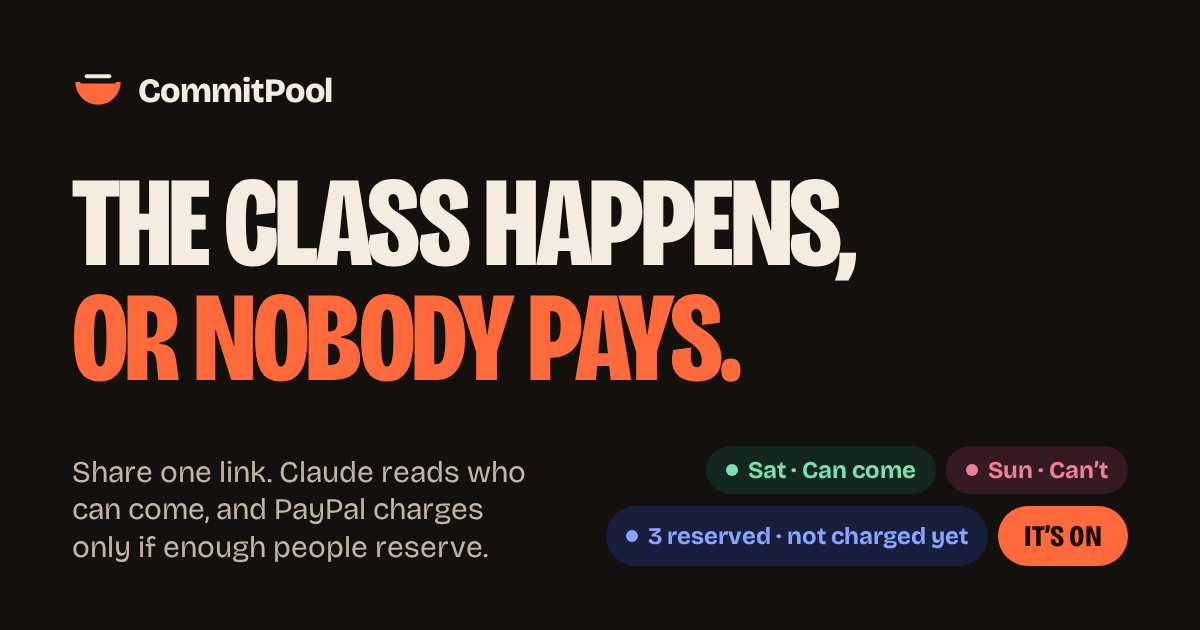
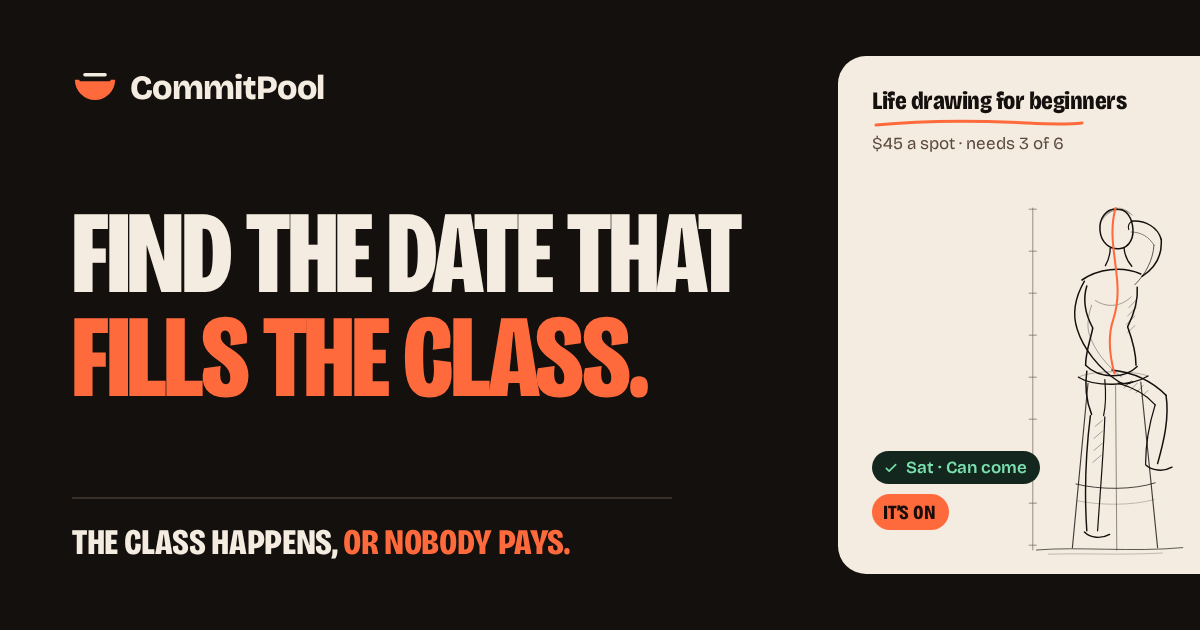
feat(web): capture the demo's real screens and draw the link preview
web/scripts/capture.mjs walks the demo with Playwright (Try it as Iris, the
six answers, Grace answers Claude, open reservations, Priya's reservation),
writes WebP shots for the landing and PNGs for the README. The link preview
is rendered from an HTML card with the new headline.

diff --git a/web/scripts/og-default.html b/web/scripts/og-default.html
@@ -1,0 +1,97 @@
+<!doctype html>
+<html lang="en">
+<head>
+<meta charset="utf-8">
+<title>CommitPool link preview</title>
+<style>
+@font-face {
+  font-family: "Bricolage Grotesque";
+  src: url("../src/assets/fonts/bricolage-latin-var.woff2") format("woff2");
+  font-weight: 200 800;
+  font-stretch: 75% 100%;
+  font-display: block;
+}
+* { box-sizing: border-box; margin: 0; }
+html, body { width: 1200px; height: 630px; overflow: hidden; }
+body { background: #14100d; color: #f4ece0; font-family: "Bricolage Grotesque", sans-serif; font-optical-sizing: auto; position: relative; }
+.copy { position: absolute; left: 72px; top: 64px; width: 700px; }
+.logo { display: flex; align-items: center; gap: 12px; font-weight: 800; font-size: 34px; letter-spacing: -0.02em; }
+.logo svg { width: 46px; height: 46px; }
+h1 { margin-top: 92px; font-weight: 800; font-stretch: 75%; text-transform: uppercase; font-size: 118px; line-height: 0.88; letter-spacing: -0.02em; }
+h1 span { color: #ff6a3d; }
+.promise { position: absolute; left: 72px; bottom: 66px; padding-top: 22px; border-top: 2px solid #3a2f27; width: 600px; font-weight: 800; font-stretch: 75%; text-transform: uppercase; font-size: 36px; letter-spacing: -0.01em; }
+.promise span { color: #ff6a3d; }
+.sheet { position: absolute; right: 0; top: 56px; bottom: 56px; width: 362px; background: #f4ece0; border-radius: 28px 0 0 28px; color: #14100d; padding: 30px 0 0 34px; }
+.sheet b { display: block; font-size: 25px; font-weight: 800; font-stretch: 80%; letter-spacing: -0.02em; }
+.sheet small { display: block; margin-top: 4px; font-size: 17px; color: #5b4a3d; }
+.sheet svg.uline { display: block; width: 214px; height: 10px; margin-top: 3px; }
+.sheet svg.figure { position: absolute; right: 10px; bottom: 18px; height: 384px; width: auto; }
+.chip { position: absolute; left: 34px; display: inline-flex; align-items: center; gap: 7px; padding: 6px 13px 6px 11px; border-radius: 999px; font-size: 17px; font-weight: 600; }
+.chip svg { width: 16px; height: 16px; fill: none; stroke: currentColor; stroke-width: 2.4; stroke-linecap: round; stroke-linejoin: round; }
+.can { background: #14271e; color: #7be0ae; bottom: 90px; }
+.on { background: #ff6a3d; color: #1a0d07; bottom: 44px; font-weight: 800; font-stretch: 75%; text-transform: uppercase; font-size: 20px; letter-spacing: -0.01em; }
+</style>
+</head>
+<body>
+  <div class="copy">
+    <div class="logo">
+      <svg viewBox="0 0 32 32"><path d="M2 11h28a14 14 0 0 1-28 0Z" fill="#ff6a3d"/><path d="M6 11h20" stroke="#14100d" stroke-width="2" stroke-linecap="round"/><path d="M9 7.5h14" stroke="#f4ece0" stroke-width="2.4" stroke-linecap="round"/></svg>
+      CommitPool
+    </div>
+    <h1>Find the date that <span>fills the class.</span></h1>
+  </div>
+  <p class="promise">The class happens, <span>or nobody pays.</span></p>
+  <div class="sheet">
+    <b>Life drawing for beginners</b>
+    <svg class="uline" viewBox="0 0 210 10"><path d="M2 6c40-4 92-5 150-2 20 1 38 2 56 0" fill="none" stroke="#ff6a3d" stroke-width="3" stroke-linecap="round"/></svg>
+    <small>$45 a spot · needs 3 of 6</small>
+    <svg class="figure" viewBox="0 0 280 640">
+      <g fill="none" stroke-linecap="round" stroke-linejoin="round">
+          <path d="M18 60v570" stroke="#6b5a4c" stroke-width="1.1"/>
+          <path d="M12 62h12M12 132h12M12 202h12M12 272h12M12 342h12M12 412h12M12 482h12M12 552h12M12 622h12" stroke="#6b5a4c" stroke-width="1.1"/>
+          <path d="M160 62c-20-2-32 16-30 36 2 20 16 31 32 30 18-2 26-20 22-40-3-16-12-26-24-26" stroke="#14100d" stroke-width="2.5"/>
+          <path d="M134 80c10-18 34-24 50-8" stroke="#14100d" stroke-width="1.2" opacity="0.5"/>
+          <path d="M138 72c14-12 30-12 42-2M141 66c12-8 26-8 36 0" stroke="#14100d" stroke-width="1" opacity="0.4"/>
+          <path d="M147 127c0 11-3 20-8 29M170 126c1 12 5 22 13 31" stroke="#14100d" stroke-width="2.2"/>
+          <path d="M100 180c26-18 66-24 98-10" stroke="#14100d" stroke-width="2.6"/>
+          <path d="M200 174c22-14 34-34 32-62" stroke="#14100d" stroke-width="2.5"/>
+          <path d="M188 188c18-18 30-40 32-66" stroke="#14100d" stroke-width="1.6" opacity="0.7"/>
+          <path d="M232 112c-6-20-26-32-50-30" stroke="#14100d" stroke-width="2.4"/>
+          <path d="M220 122c-8-14-22-22-38-22" stroke="#14100d" stroke-width="1.4" opacity="0.6"/>
+          <path d="M184 82c-6 2-8 8-6 14" stroke="#14100d" stroke-width="1.8"/>
+          <path d="M108 190c-8 26-2 48 10 70-4 20-12 40-12 62" stroke="#14100d" stroke-width="2.5"/>
+          <path d="M192 192c2 24-6 46-16 66 8 22 14 42 14 64" stroke="#14100d" stroke-width="2.5"/>
+          <path d="M122 214c18 12 42 12 60-6" stroke="#14100d" stroke-width="1.2" opacity="0.5"/>
+          <path d="M104 182c-16 28-20 56-12 80 10 32 36 66 70 88" stroke="#14100d" stroke-width="2.4"/>
+          <path d="M116 222c-6 18-8 34-4 48 8 26 28 52 54 72" stroke="#14100d" stroke-width="1.2" opacity="0.5"/>
+          <path d="M162 350c8 4 16 4 22 0" stroke="#14100d" stroke-width="2"/>
+          <path d="M106 322c22 22 64 24 86 2" stroke="#14100d" stroke-width="2.3"/>
+          <path d="M150 330c36 4 66 18 90 42" stroke="#14100d" stroke-width="2.6"/>
+          <path d="M160 352c28 8 48 20 62 36" stroke="#14100d" stroke-width="2"/>
+          <path d="M240 372c6 38-4 78-14 114" stroke="#14100d" stroke-width="2.5"/>
+          <path d="M222 388c-10 32-16 66-16 98" stroke="#14100d" stroke-width="2"/>
+          <path d="M206 488c10 10 30 12 44 4" stroke="#14100d" stroke-width="2.4"/>
+          <path d="M108 332c-4 28 0 52 8 72" stroke="#14100d" stroke-width="2.5"/>
+          <path d="M138 346c2 22 2 42-2 60" stroke="#14100d" stroke-width="2"/>
+          <path d="M114 406c-8 64-10 132-6 192" stroke="#14100d" stroke-width="2.4"/>
+          <path d="M138 408c-2 62-8 128-12 190" stroke="#14100d" stroke-width="2"/>
+          <path d="M104 600c10 10 28 12 42 4" stroke="#14100d" stroke-width="2.4"/>
+          <path d="M94 342c26 16 88 16 116-2" stroke="#14100d" stroke-width="2.2"/>
+          <path d="M94 342c24-12 90-12 116-2" stroke="#14100d" stroke-width="1.1" opacity="0.45"/>
+          <path d="M110 352L84 626M198 350L226 626" stroke="#14100d" stroke-width="1.9" opacity="0.8"/>
+          <path d="M156 356L158 630" stroke="#14100d" stroke-width="1.4" opacity="0.55"/>
+          <path d="M90 520c40 10 96 10 132-2" stroke="#14100d" stroke-width="1.6" opacity="0.8"/>
+          <path d="M92 548c40 8 92 8 128-2" stroke="#14100d" stroke-width="1" opacity="0.4"/>
+          <path d="M178 226l12-12M176 240l14-14M174 254l14-14M176 268l12-12" stroke="#14100d" stroke-width="1.1" opacity="0.55"/>
+          <path d="M170 360l12-12M180 364l12-12M190 368l12-12M200 374l10-10" stroke="#14100d" stroke-width="1.1" opacity="0.55"/>
+          <path d="M122 424l12-10M120 444l14-12M120 464l14-12M118 484l14-12" stroke="#14100d" stroke-width="1.1" opacity="0.55"/>
+          <path d="M24 630c70-6 160 4 244-4" stroke="#14100d" stroke-width="1.6" opacity="0.7"/>
+          <path d="M44 637c60-2 120 2 190-2" stroke="#14100d" stroke-width="1" opacity="0.4"/>
+          <path d="M156 60c-18 64 18 120-4 186-10 30-6 60 2 90" stroke="#ff6a3d" stroke-width="3.4"/>
+      </g>
+    </svg>
+    <span class="chip can"><svg viewBox="0 0 24 24"><path d="M5 12.5l4.2 4.2L19 7"/></svg>Sat · Can come</span>
+    <span class="chip on">It’s on</span>
+  </div>
+</body>
+</html>
